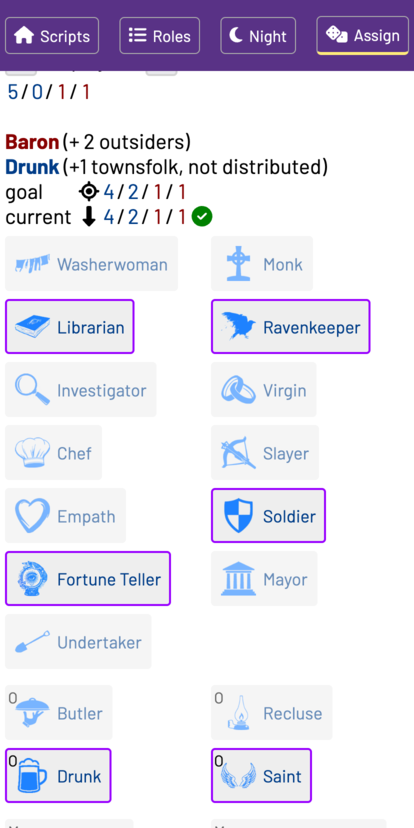
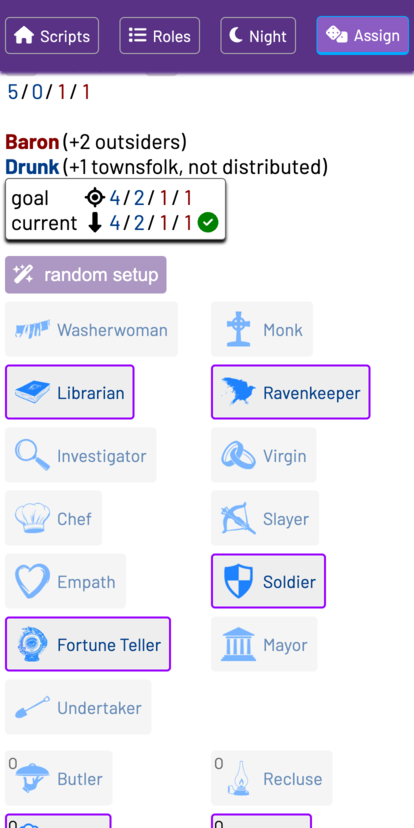
Update screenshots

diff --git a/test/screenshot.ts b/test/screenshot.ts
@@ -67,7 +67,7 @@ async function main() {
   await pickChar("Fortune Teller");
   await screenshot("assign/2-complete");
 
-  await scrollPage(1150);
+  await scrollPage(1050);
   await screenshot("assign/3-bag");
 
   await page.setViewport({
